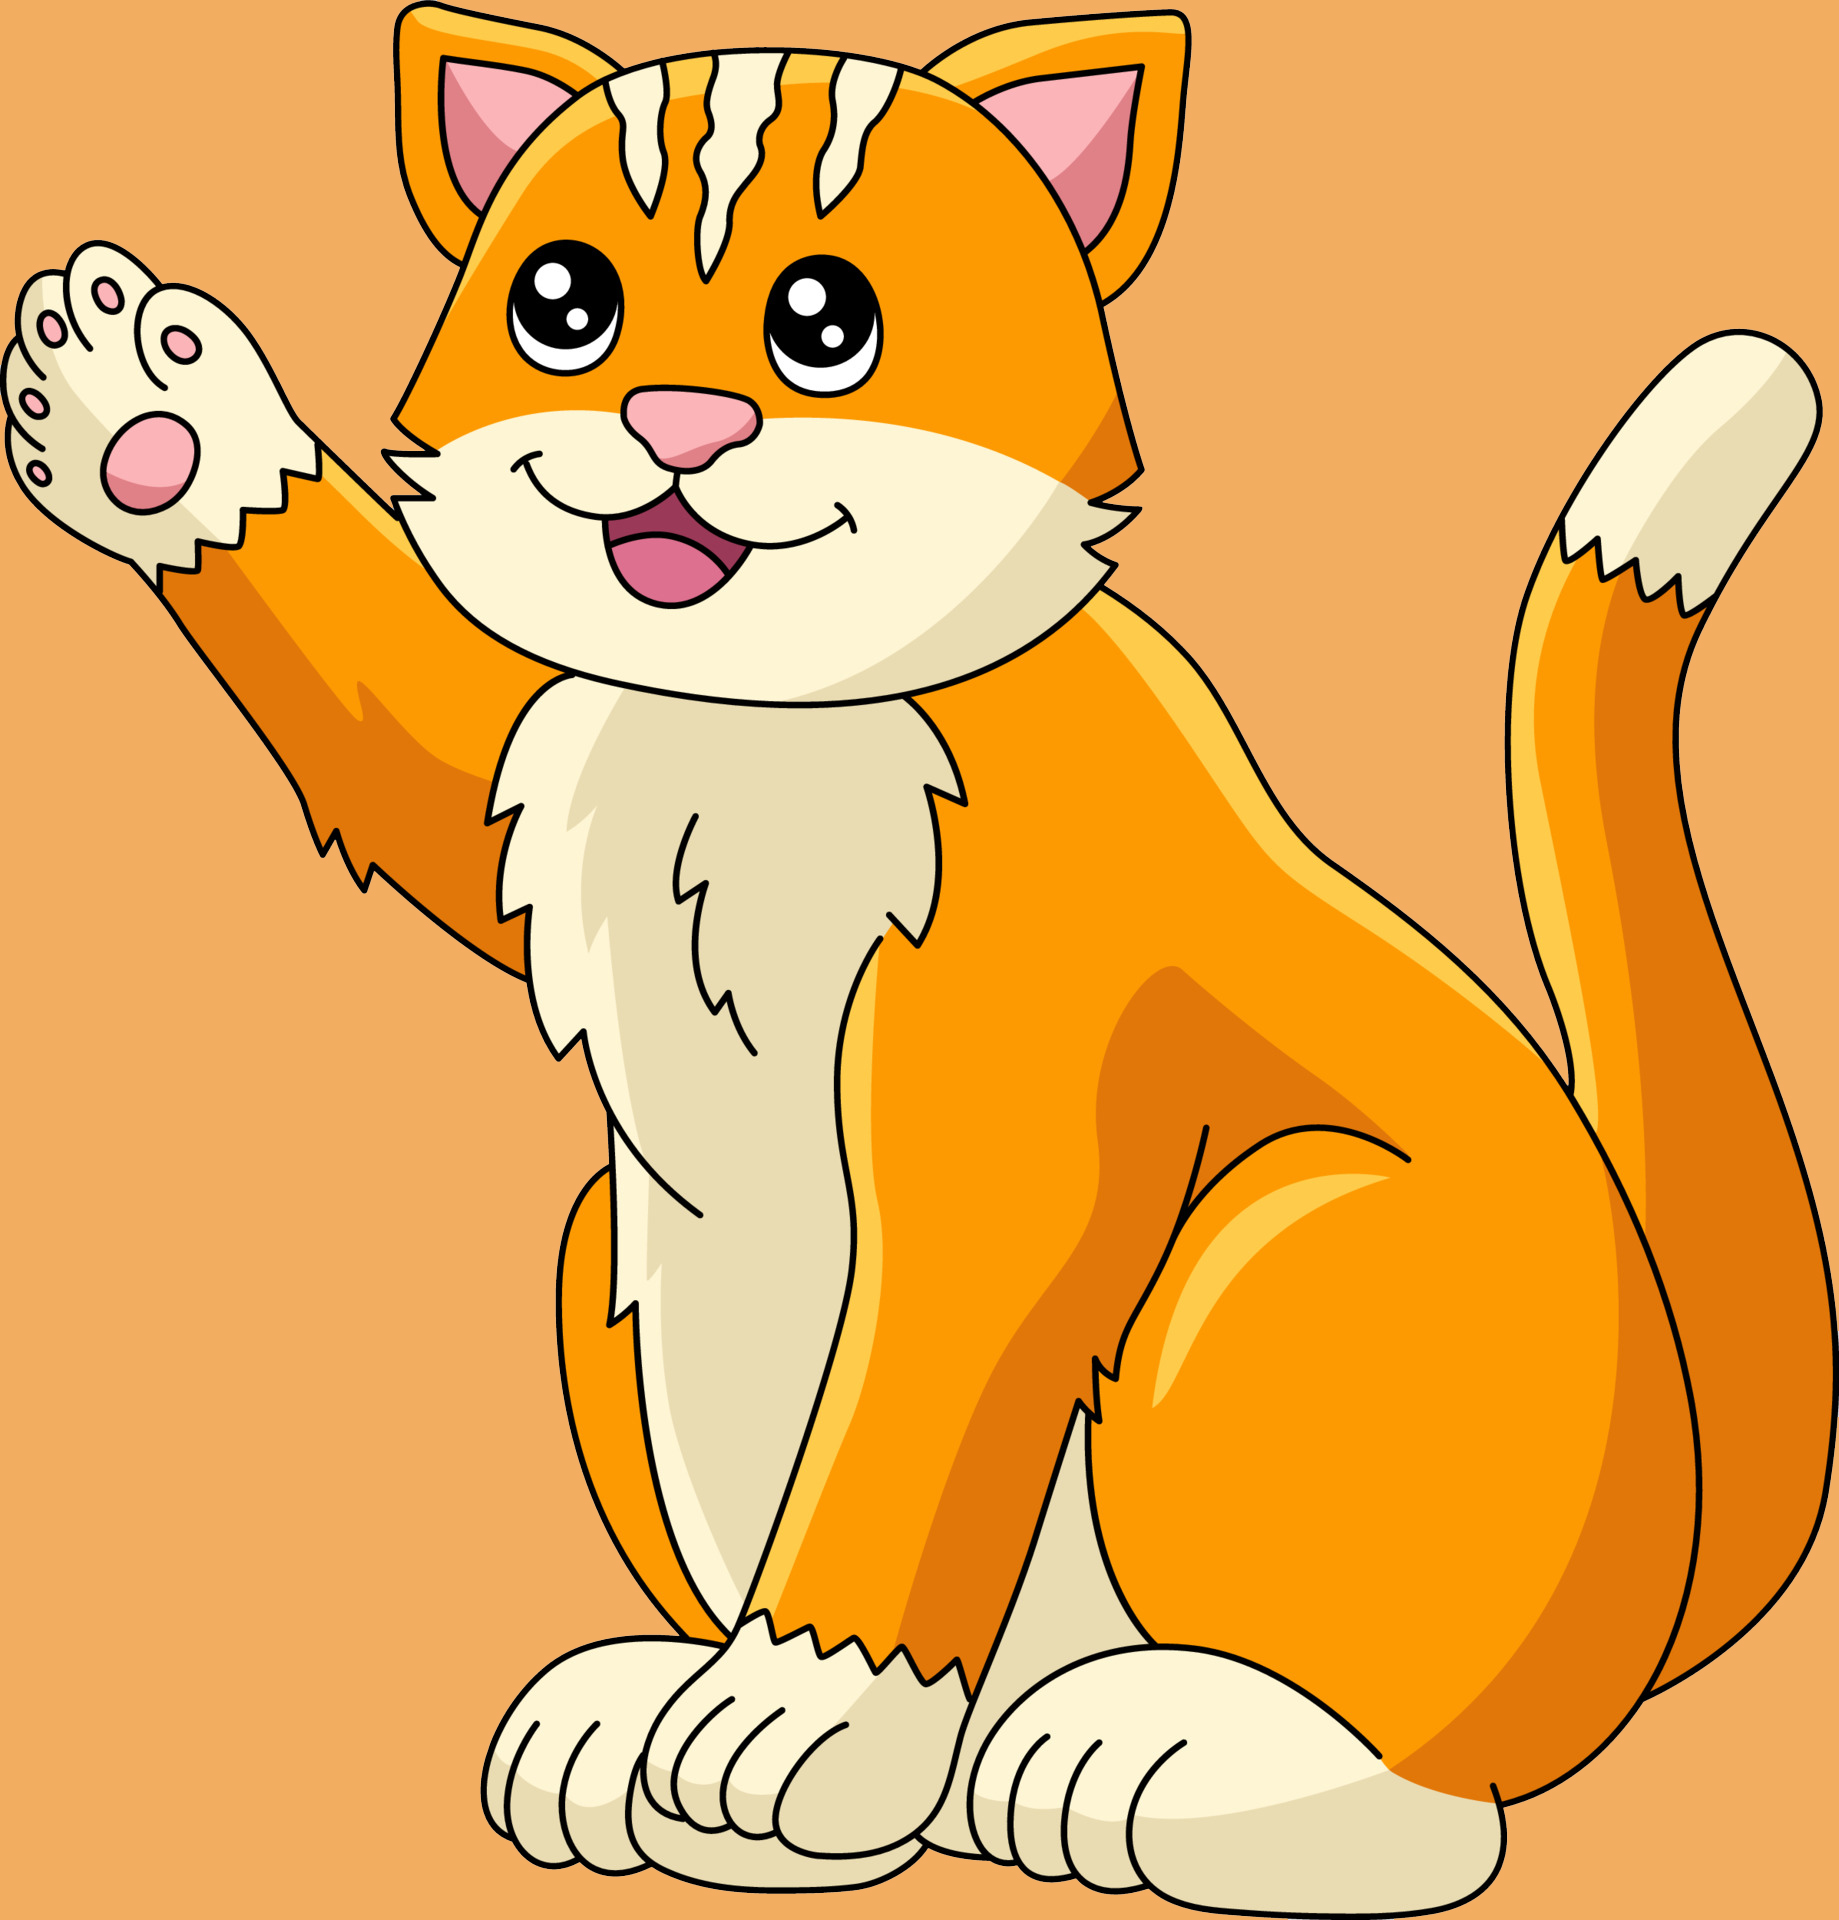
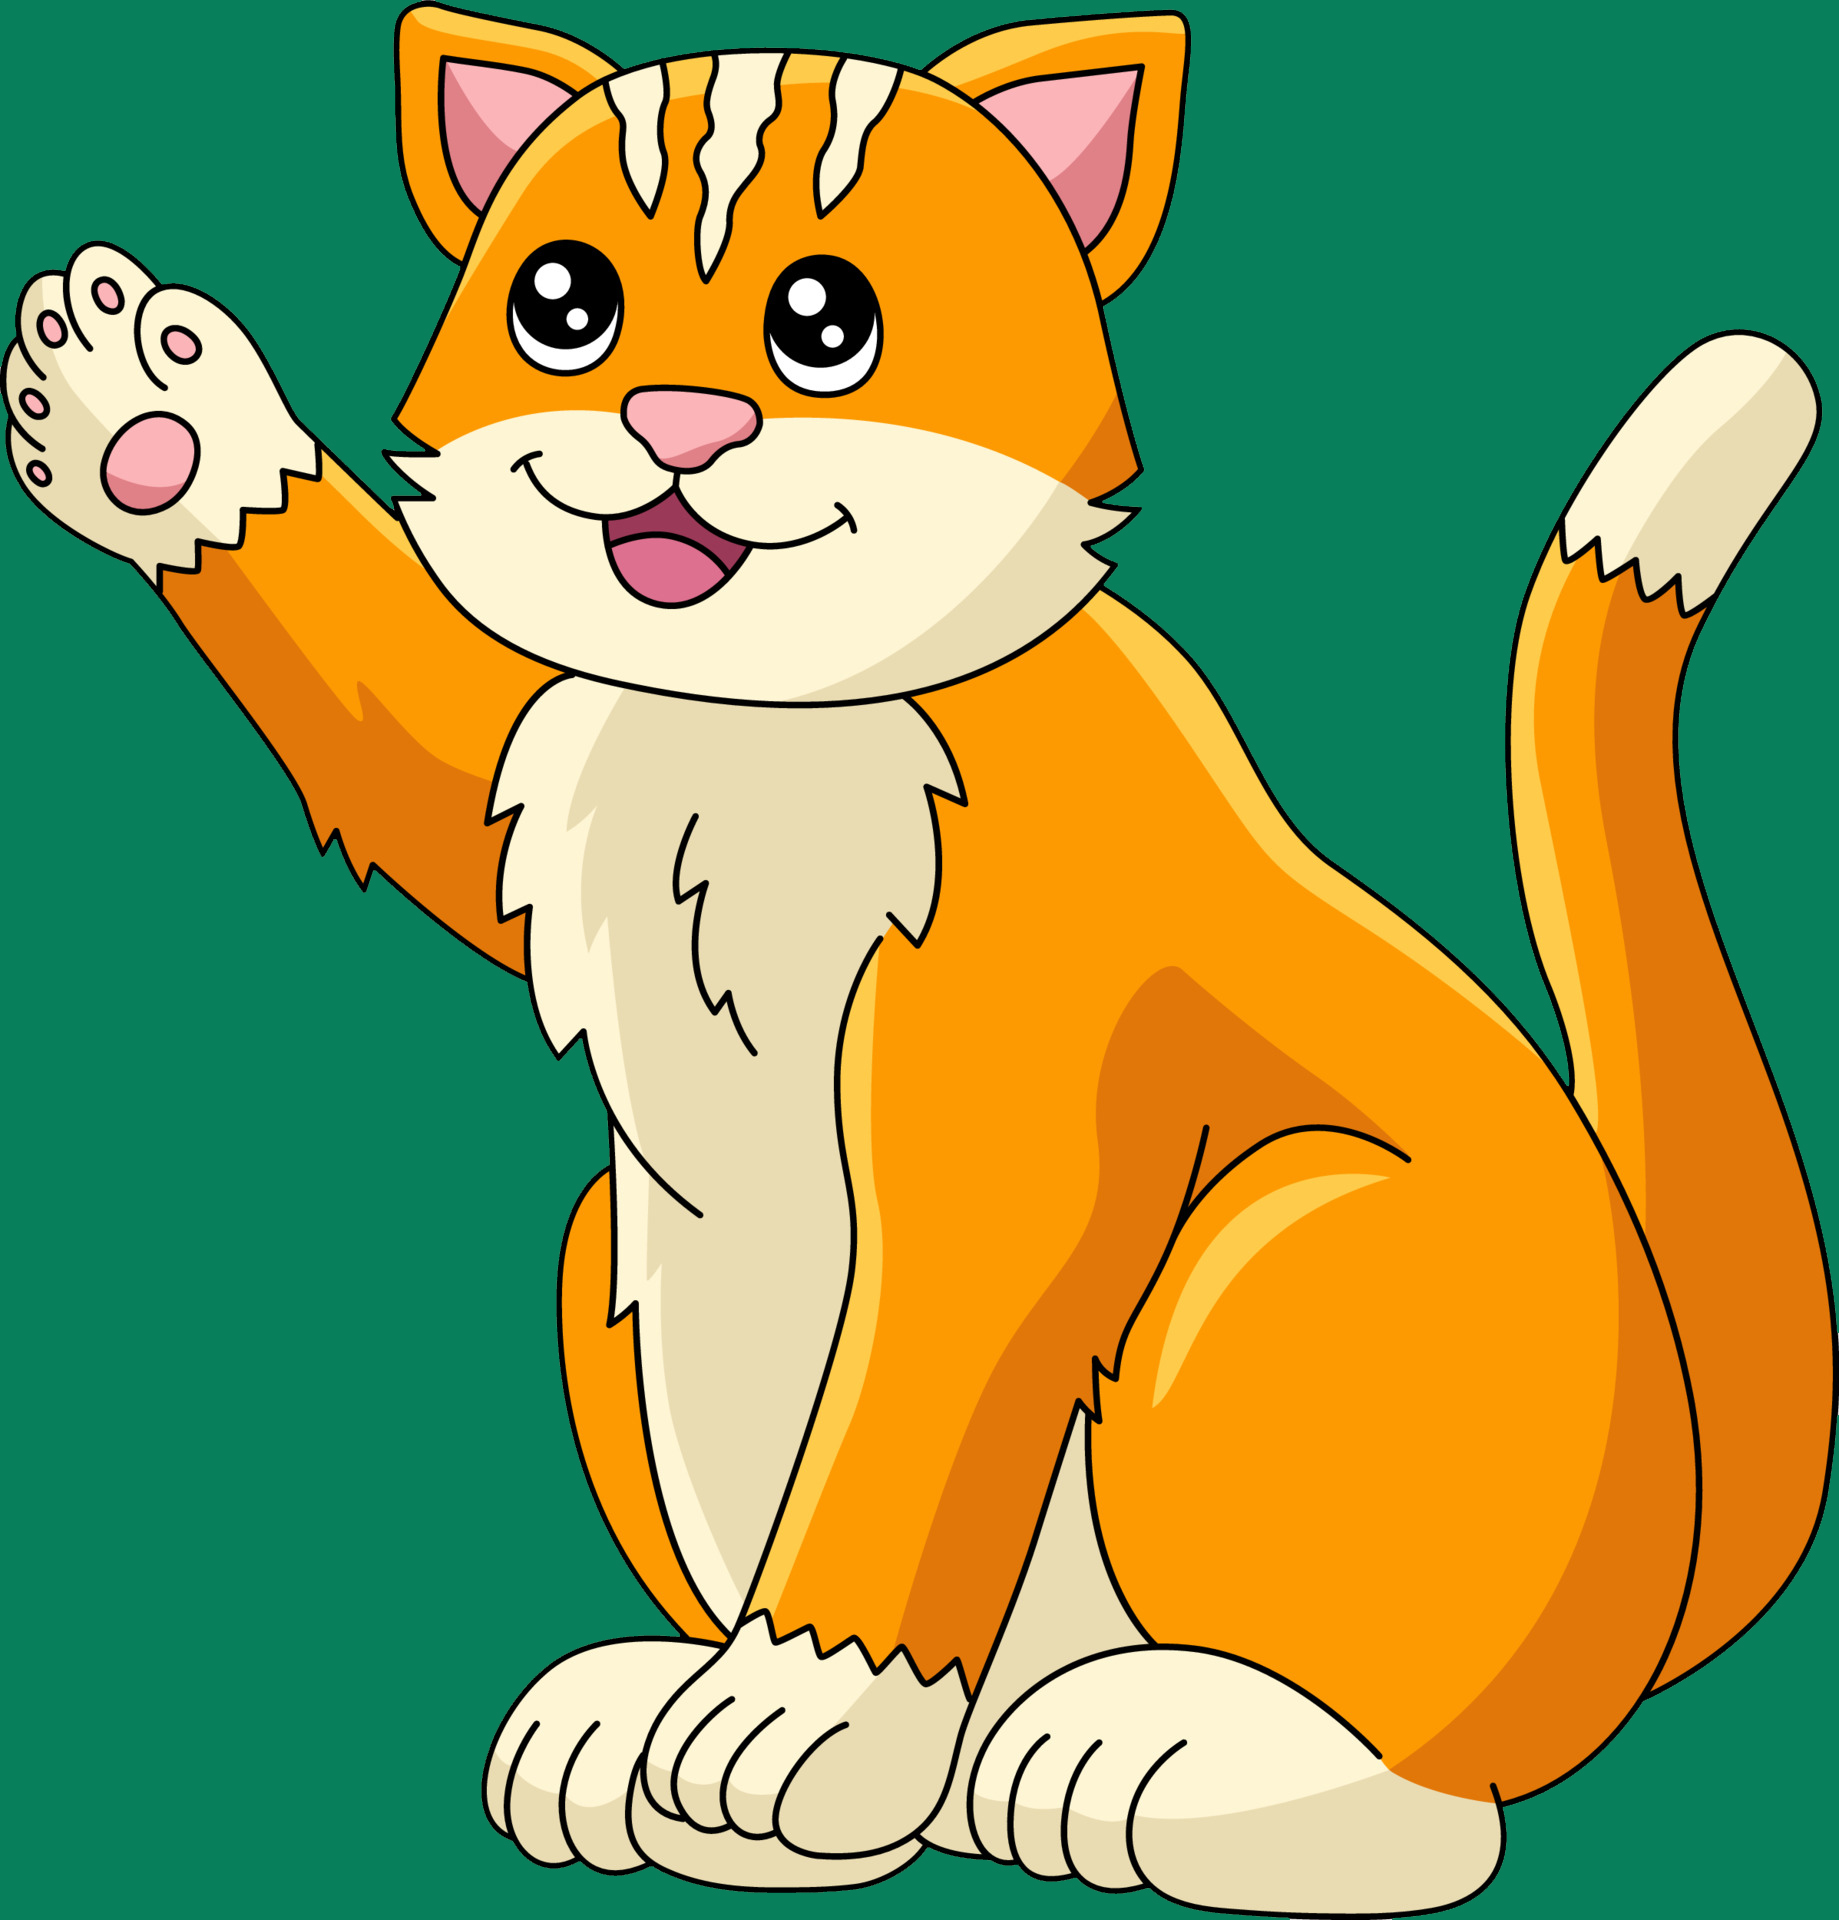
painting and styling clipart

diff --git a/src/Header.js b/src/Header.js
@@ -7,7 +7,7 @@ export default function Header() {
       <Logo />
       <div className="headline">
         <h1>CATS FROM THE HOOD</h1>
-        <img src=".\Images\cat-clipart.jpg" />
+        <img src=".\Images\cat-hello-clipart.jpg" />
         <p>Get your lucky 💫 cat! 🐈⬛🐈</p>
       </div>
       {/* <Menu /> */}

diff --git a/src/index.css b/src/index.css
@@ -105,7 +105,7 @@ article {
   gap: 100px;
   padding: 50px;
 
-  background-color: #fdcfb85d;
+  background-color: rgba(253, 207, 184, 0.365);
 }
 
 .logo {
